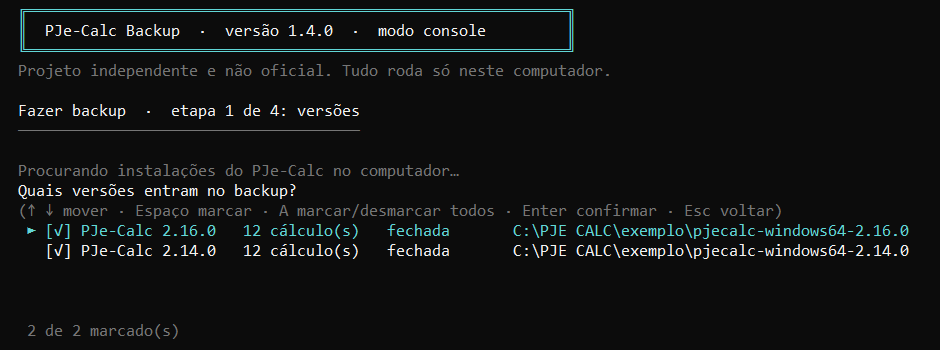
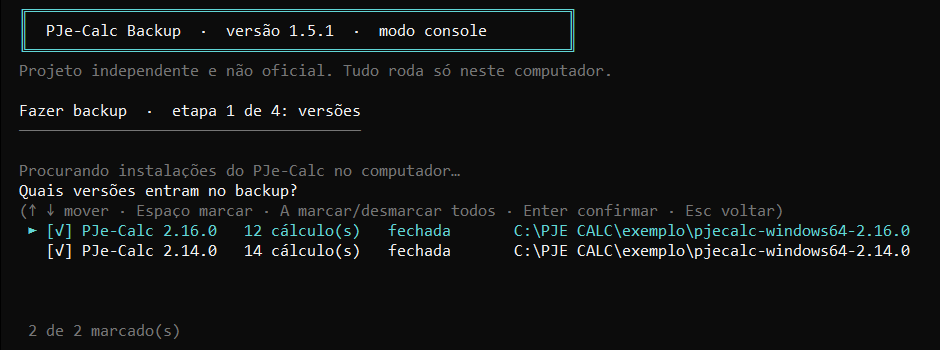
Site e README: fotos novas da 1.5.1 e novidades da 1.5
- Todas as fotos e as duas demonstrações refeitas na 1.5.1, com dados fictícios
- Site: seção "Novidades da versão 1.5", selo "novo" no topo, cores do logo
  (azul-marinho e âmbar), aviso do TRT8, Relatar um problema e espaço em disco
- README: novidades, cartões do aviso do TRT8 e de Relatar um problema,
  limitações e requisitos atualizados (testado também na 2.13.0)
- Tira a instrução de abrir a versão nova do PJe-Calc antes de migrar

diff --git a/docs/index.html b/docs/index.html
@@ -20,9 +20,11 @@
 <link rel="icon" type="image/png" href="icone.png">
 <style>
 :root {
-  --azul: #2c5d8f;
-  --azul-escuro: #1f4570;
+  --azul: #1f4f80;
+  --azul-escuro: #12355b;
   --azul-claro: #e8eff7;
+  --ambar: #f2a900;
+  --ambar-claro: #fff4d6;
   --fundo: #f4f6f9;
   --faixa: #ffffff;
   --faixa-azul: #eaf1f8;
@@ -41,6 +43,8 @@
     --azul: #6aa3dc;
     --azul-escuro: #8ab8e6;
     --azul-claro: #1c2a3a;
+    --ambar: #f2b724;
+    --ambar-claro: #2d2611;
     --fundo: #10161d;
     --faixa: #151d26;
     --faixa-azul: #142233;
@@ -81,7 +85,7 @@ h2 { font-size: 30px; line-height: 1.2; margin: 0 0 8px; letter-spacing: -.4px; 
 .centro .sub { margin-left: auto; margin-right: auto; }
 
 /* topo */
-.topo { background: linear-gradient(160deg, #224c77, #2c5d8f 55%, #3a6fa3); color: #fff; position: relative; }
+.topo { background: linear-gradient(160deg, #0f2c4c, #12355b 50%, #1f4f80); color: #fff; position: relative; }
 .barra { display: flex; align-items: center; justify-content: space-between; gap: 12px; padding: 14px 0; }
 .marca { display: flex; align-items: center; gap: 10px; color: #fff; text-decoration: none; font-weight: 600; font-size: 18px; }
 .marca img { width: 32px; height: 32px; border-radius: 8px; }
@@ -125,7 +129,7 @@ h2 { font-size: 30px; line-height: 1.2; margin: 0 0 8px; letter-spacing: -.4px; 
 /* barra fixa */
 .fixa {
   position: fixed; top: 0; left: 0; right: 0; z-index: 9;
-  background: rgba(31, 69, 112, .96); backdrop-filter: blur(6px);
+  background: rgba(18, 53, 91, .96); backdrop-filter: blur(6px);
   box-shadow: 0 2px 12px rgba(0, 0, 0, .2);
   transform: translateY(-100%); transition: transform .2s ease;
 }
@@ -141,9 +145,24 @@ h2 { font-size: 30px; line-height: 1.2; margin: 0 0 8px; letter-spacing: -.4px; 
 .oficial { margin: 0 0 22px; padding: 14px 18px; border-radius: 10px; background: var(--fundo); border: 1px solid var(--borda); color: var(--suave); font-size: 15px; }
 .oficial b { color: var(--texto); }
 .numeros { display: grid; grid-template-columns: repeat(4, 1fr); gap: 18px; }
-.numero { padding: 4px 0 4px 18px; border-left: 3px solid var(--azul); }
+.numero { padding: 4px 0 4px 18px; border-left: 3px solid var(--ambar); }
 .numero strong { display: block; font-size: 30px; line-height: 1.15; color: var(--azul); letter-spacing: -.5px; }
 .numero span { color: var(--suave); font-size: 15px; }
+
+/* selo "novo" no topo e novidades */
+.novo { display: inline-flex; align-items: center; gap: 8px; margin: 0 0 16px; padding: 4px 12px 4px 4px; border-radius: 99px; background: rgba(255, 255, 255, .1); border: 1px solid rgba(255, 255, 255, .22); color: #eaf2fa; font-size: 14px; text-decoration: none; }
+.novo b { background: var(--ambar); color: #12355b; font-size: 12px; letter-spacing: .3px; padding: 2px 9px; border-radius: 99px; }
+.novo:hover { background: rgba(255, 255, 255, .16); }
+.novidades { display: grid; grid-template-columns: repeat(4, 1fr); gap: 18px; }
+.novidade { background: var(--cartao); border: 1px solid var(--borda); border-top: 3px solid var(--ambar); border-radius: 12px; padding: 20px; box-shadow: var(--sombra); }
+.novidade svg { width: 26px; height: 26px; color: var(--azul); }
+.novidade h3 { margin: 8px 0 6px; font-size: 17px; }
+.novidade p { margin: 0; color: var(--suave); font-size: 15px; }
+.faixa-trt8 { margin: 0 0 22px; border-radius: 10px; border: 1px solid var(--borda); box-shadow: var(--sombra); cursor: zoom-in; }
+.relato { display: grid; grid-template-columns: 1.2fr 1fr; gap: 32px; align-items: center; margin-top: 28px; }
+.relato img { border-radius: 10px; border: 1px solid var(--borda); box-shadow: var(--sombra); cursor: zoom-in; }
+.relato h3 { font-size: 22px; margin: 0 0 8px; }
+.relato p { margin: 0 0 12px; color: var(--suave); }
 
 /* antes e depois */
 .comparar { display: grid; grid-template-columns: 1fr 1fr; gap: 20px; }
@@ -230,7 +249,7 @@ h2 { font-size: 30px; line-height: 1.2; margin: 0 0 8px; letter-spacing: -.4px; 
 .copiar { font-size: 14px; font-weight: 600; cursor: pointer; border: 1px solid var(--borda); background: var(--cartao); color: var(--azul); border-radius: 8px; padding: 6px 12px; }
 
 /* baixar */
-.baixar { background: linear-gradient(160deg, #224c77, #2c5d8f 55%, #3a6fa3); color: #fff; padding: 64px 0; scroll-margin-top: 40px; }
+.baixar { background: linear-gradient(160deg, #0f2c4c, #12355b 50%, #1f4f80); color: #fff; padding: 64px 0; scroll-margin-top: 40px; }
 .baixar h2 { color: #fff; }
 .baixar .sub { color: #dbe8f5; }
 .baixar-grade { display: grid; grid-template-columns: 1fr 1fr; gap: 40px; align-items: start; }
@@ -266,6 +285,8 @@ footer nav { display: flex; flex-wrap: wrap; gap: 16px; }
   .numeros { grid-template-columns: repeat(2, 1fr); }
   .passos { grid-template-columns: repeat(2, 1fr); }
   .painel { grid-template-columns: 1fr; gap: 20px; }
+  .novidades { grid-template-columns: repeat(2, 1fr); }
+  .relato { grid-template-columns: 1fr; gap: 20px; }
   .windows, .duas, .baixar-grade { grid-template-columns: 1fr; }
   .duas, .baixar-grade { gap: 36px; }
 }
@@ -278,7 +299,7 @@ footer nav { display: flex; flex-wrap: wrap; gap: 16px; }
   .faixa, .baixar { padding: 48px 0; }
   .heroi h1 { font-size: 29px; }
   h2 { font-size: 25px; }
-  .comparar, .passos, .numeros { grid-template-columns: 1fr; }
+  .comparar, .passos, .numeros, .novidades { grid-template-columns: 1fr; }
   .numero strong { font-size: 25px; }
   .abas { flex-wrap: nowrap; overflow-x: auto; margin: 0 -16px 18px; padding: 2px 16px 6px; scrollbar-width: none; }
   .abas::-webkit-scrollbar { display: none; }
@@ -286,6 +307,7 @@ footer nav { display: flex; flex-wrap: wrap; gap: 16px; }
   .botoes .botao { width: 100%; justify-content: center; }
   .apoie { grid-template-columns: 1fr; padding: 22px; }
   .arquivo { flex-direction: column; align-items: flex-start; }
+  .faixa-trt8 { display: none; }
 }
 </style>
 </head>
@@ -309,6 +331,10 @@ footer nav { display: flex; flex-wrap: wrap; gap: 16px; }
   <symbol id="i-historico" viewBox="0 0 24 24"><g fill="none" stroke="currentColor" stroke-width="2" stroke-linecap="round" stroke-linejoin="round"><circle cx="11" cy="11" r="7"/><path d="m20 20-4-4"/></g></symbol>
   <symbol id="i-automatico" viewBox="0 0 24 24"><g fill="none" stroke="currentColor" stroke-width="2" stroke-linecap="round" stroke-linejoin="round"><rect x="3" y="5" width="18" height="16" rx="2"/><path d="M3 10h18M8 3v4M16 3v4"/><path d="m9 15 2 2 4-4"/></g></symbol>
   <symbol id="i-tema" viewBox="0 0 24 24"><g fill="none" stroke="currentColor" stroke-width="2" stroke-linecap="round" stroke-linejoin="round"><path d="M20 14.5A8 8 0 0 1 9.5 4a8 8 0 1 0 10.5 10.5z"/></g></symbol>
+  <symbol id="i-sino" viewBox="0 0 24 24"><g fill="none" stroke="currentColor" stroke-width="2" stroke-linecap="round" stroke-linejoin="round"><path d="M6 16V11a6 6 0 0 1 12 0v5l2 2H4z"/><path d="M10 20a2 2 0 0 0 4 0"/></g></symbol>
+  <symbol id="i-disco" viewBox="0 0 24 24"><g fill="none" stroke="currentColor" stroke-width="2" stroke-linecap="round" stroke-linejoin="round"><rect x="3" y="6" width="18" height="12" rx="2"/><path d="M7 14h6"/><circle cx="17" cy="14" r="1"/></g></symbol>
+  <symbol id="i-relato" viewBox="0 0 24 24"><g fill="none" stroke="currentColor" stroke-width="2" stroke-linecap="round" stroke-linejoin="round"><path d="M4 5h16v11H9l-5 4z"/><path d="M12 8v3M12 13.5v.01"/></g></symbol>
+  <symbol id="i-cofre" viewBox="0 0 24 24"><g fill="none" stroke="currentColor" stroke-width="2" stroke-linecap="round" stroke-linejoin="round"><rect x="3" y="3" width="18" height="16" rx="2"/><circle cx="13" cy="11" r="4.5"/><path d="M11 10h4M11 12h4M6 8v1M6 13v1M7 19v2M17 19v2"/></g></symbol>
 </svg>
 
 <div class="fixa" id="fixa" aria-hidden="true">
@@ -316,6 +342,7 @@ footer nav { display: flex; flex-wrap: wrap; gap: 16px; }
     <a class="marca" href="#" tabindex="-1"><img src="logo-branco.png" alt="" width="28" height="28">PJe-Calc Backup</a>
     <nav class="menu">
       <a href="#funcoes" tabindex="-1">O que faz</a>
+      <a href="#novidades" tabindex="-1">Novidades</a>
       <a href="#como-usar" tabindex="-1">Como usar</a>
       <a href="#perguntas" tabindex="-1">Perguntas</a>
       <a href="#baixar" tabindex="-1">Requisitos</a>
@@ -330,6 +357,7 @@ footer nav { display: flex; flex-wrap: wrap; gap: 16px; }
       <a class="marca" href="#"><img src="logo-branco.png" alt="" width="32" height="32">PJe-Calc Backup</a>
       <nav class="menu">
         <a href="#funcoes">O que faz</a>
+        <a href="#novidades">Novidades</a>
         <a href="#como-usar">Como usar</a>
         <a href="#perguntas">Perguntas</a>
         <a href="https://github.com/lfeliipeadv-stack/pjecalc-backup/wiki">Guia completo</a>
@@ -340,6 +368,7 @@ footer nav { display: flex; flex-wrap: wrap; gap: 16px; }
     </div>
     <nav class="gaveta" id="gaveta">
       <a href="#funcoes">O que faz</a>
+      <a href="#novidades">Novidades</a>
       <a href="#como-usar">Como usar</a>
       <a href="#perguntas">Perguntas</a>
       <a href="#baixar">Requisitos e arquivos</a>
@@ -347,6 +376,7 @@ footer nav { display: flex; flex-wrap: wrap; gap: 16px; }
     </nav>
     <div class="heroi">
       <div>
+        <a class="novo" href="#novidades"><b>NOVO</b>Novidades da versão 1.5 →</a>
         <h1>Os cálculos do PJe-Calc guardados, em ordem e sem perder nenhum</h1>
         <p class="lead">Backup, restauração e migração dos cálculos do <b>PJe-Calc Cidadão</b> em todas as versões instaladas no computador. Com a numeração dos cálculos sempre em sequência.</p>
         <div class="botoes">
@@ -465,8 +495,9 @@ footer nav { display: flex; flex-wrap: wrap; gap: 16px; }
       <img src="tela-migrar.png" alt="Migração entre versões concluída" width="1175" height="995" loading="lazy">
       <div>
         <h3>Migração entre versões</h3>
-        <p>Instalou uma versão nova do PJe-Calc? Leve os cálculos da versão antiga para ela de uma vez.</p>
+        <p>Instalou uma versão nova do PJe-Calc? Leve os cálculos da versão antiga para ela de uma vez, sem precisar abri-la antes.</p>
         <ul>
+          <li><svg aria-hidden="true"><use href="#sim"/></svg>Com a versão nova vazia, uma faixa oferece levar os cálculos</li>
           <li><svg aria-hidden="true"><use href="#sim"/></svg>A versão de origem não é alterada</li>
           <li><svg aria-hidden="true"><use href="#sim"/></svg>O que já foi levado vem desmarcado</li>
           <li><svg aria-hidden="true"><use href="#sim"/></svg>Cópia do banco de destino antes de importar</li>
@@ -534,6 +565,45 @@ footer nav { display: flex; flex-wrap: wrap; gap: 16px; }
   </div>
 </section>
 
+<section class="faixa" id="novidades">
+  <div class="largura">
+    <h2>Novidades da versão 1.5</h2>
+    <p class="sub">Menos passos para trocar de versão do PJe-Calc, e mais avisos antes que algo dê errado.</p>
+    <img class="faixa-trt8" src="tela-aviso-trt8.png" alt="Faixa no programa: saiu o PJe-Calc 2.16.0 no site do TRT da 8ª Região, com os botões Ver no site do TRT8 e Baixar e instalar" width="1120" height="72" loading="lazy">
+    <div class="novidades">
+      <div class="novidade">
+        <svg aria-hidden="true"><use href="#i-sino"/></svg>
+        <h3>Aviso de PJe-Calc novo</h3>
+        <p>Quando o TRT da 8ª Região publica uma versão nova, uma faixa avisa. <b>Baixar e instalar</b> traz o instalador oficial de lá, conferido pelo código MD5 publicado na página.</p>
+      </div>
+      <div class="novidade">
+        <svg aria-hidden="true"><use href="#i-migrar"/></svg>
+        <h3>Migração em um clique</h3>
+        <p>Com a versão nova ainda vazia, a faixa <b>Levar os cálculos</b> abre a migração já preenchida. Não precisa mais abrir o PJe-Calc novo antes.</p>
+      </div>
+      <div class="novidade">
+        <svg aria-hidden="true"><use href="#i-disco"/></svg>
+        <h3>Espaço conferido antes</h3>
+        <p>Antes do backup, o programa confere se cabe no disco, no pendrive ou na pasta de rede, e avisa antes de começar.</p>
+      </div>
+      <div class="novidade">
+        <svg aria-hidden="true"><use href="#i-cofre"/></svg>
+        <h3>Logo novo</h3>
+        <p>O cofre: a maçaneta é o sinal de igual, de cálculo conferido. Aparece no programa, no ícone e neste site.</p>
+      </div>
+    </div>
+    <div class="relato">
+      <img src="tela-relato.png" alt="Tela Relatar um problema, com as informações técnicas sem dados das partes" width="1175" height="995" loading="lazy">
+      <div>
+        <h3>Relatar um problema, sem expor ninguém</h3>
+        <p>Pelo link no rodapé do programa: você conta o que aconteceu e ele junta as informações técnicas, trocando os <b>nomes das partes, os processos e os CPFs</b> por marcadores.</p>
+        <p>Depois é só escolher: e-mail para <b>pjecalcbkp@gmail.com</b>, uma <i>issue</i> no GitHub ou copiar o texto. Nada é enviado sem você conferir.</p>
+        <a class="mais" style="font-weight:600;font-size:15px;text-decoration:none" href="https://github.com/lfeliipeadv-stack/pjecalc-backup/wiki/Histórico-de-versões">Tudo o que mudou em cada versão →</a>
+      </div>
+    </div>
+  </div>
+</section>
+
 <section class="faixa azul" id="como-usar">
   <div class="largura">
     <h2>Como usar</h2>
@@ -572,14 +642,15 @@ footer nav { display: flex; flex-wrap: wrap; gap: 16px; }
         <li><svg aria-hidden="true"><use href="#sim"/></svg><div><b>Nunca encerra o PJe-Calc à força</b><span>Se ele estiver aberto, é fechado como no "Sair" do ícone perto do relógio e reaberto no final.</span></div></li>
         <li><svg aria-hidden="true"><use href="#sim"/></svg><div><b>Dá para desfazer</b><span>Antes de restaurar, migrar ou mudar a numeração, guarda uma cópia do banco.</span></div></li>
         <li><svg aria-hidden="true"><use href="#sim"/></svg><div><b>Nada é apagado sem perguntar</b><span>A limpeza de backups antigos mostra a lista antes e manda para a Lixeira.</span></div></li>
-        <li><svg aria-hidden="true"><use href="#sim"/></svg><div><b>Seus dados não saem do computador</b><span>A internet só é usada para ver se há versão nova, o que dá para desligar.</span></div></li>
+        <li><svg aria-hidden="true"><use href="#sim"/></svg><div><b>Confere o espaço antes</b><span>Se a pasta dos backups não tiver espaço, o programa avisa antes de começar.</span></div></li>
+        <li><svg aria-hidden="true"><use href="#sim"/></svg><div><b>Seus dados não saem do computador</b><span>A internet só é usada para ver se há versão nova do programa (no GitHub) e do PJe-Calc (no site do TRT8). As duas consultas podem ser desligadas.</span></div></li>
       </ul>
     </div>
     <div class="cmd" id="cmd">
       <h2>Também no CMD</h2>
       <p>O programa traz junto uma versão para o terminal, com as mesmas funções em menus simples e um modo automático para scripts.</p>
       <pre><code>PJeCalcBackup-Console.exe --backup --rapido</code></pre>
-      <img src="cmd-backup.png" alt="Backup rápido pela versão para o CMD" width="1059" height="690" loading="lazy">
+      <img src="cmd-backup.png" alt="Backup rápido pela versão para o CMD" width="1098" height="800" loading="lazy">
       <p style="font-size:15px;margin-top:12px"><a href="https://github.com/lfeliipeadv-stack/pjecalc-backup/wiki/Versão-para-o-CMD">Ver os menus e todos os parâmetros →</a></p>
     </div>
   </div>
@@ -595,7 +666,11 @@ footer nav { display: flex; flex-wrap: wrap; gap: 16px; }
     </details>
     <details>
       <summary>Em quais versões do PJe-Calc funciona?</summary>
-      <p>No PJe-Calc Cidadão para Windows. Foi testado nas versões 2.14.0 e 2.16.0, e encontra sozinho todas as versões instaladas no computador.</p>
+      <p>No PJe-Calc Cidadão para Windows. Foi testado nas versões 2.13.0, 2.14.0 e 2.16.0, e encontra sozinho todas as versões instaladas no computador.</p>
+    </details>
+    <details>
+      <summary>Instalei uma versão nova do PJe-Calc. Preciso abri-la antes de migrar?</summary>
+      <p>Não. Quando a versão nova ainda está do jeito que o instalador do TRT8 deixou, o programa faz sozinho o passo da primeira abertura, e a faixa "Levar os cálculos" já leva até a migração. Esse passo foi conferido no PJe-Calc 2.16.0; numa versão diferente, o programa não mexe e pede para abri-la uma vez pelo atalho oficial.</p>
     </details>
     <details>
       <summary>Preciso fechar o PJe-Calc antes do backup?</summary>
@@ -619,7 +694,7 @@ footer nav { display: flex; flex-wrap: wrap; gap: 16px; }
     </details>
     <details>
       <summary>Encontrei um problema. Como relato?</summary>
-      <p>Abra uma <a href="https://github.com/lfeliipeadv-stack/pjecalc-backup/issues">issue no GitHub</a> com a versão do PJe-Calc, a do programa (aparece no rodapé) e a do Windows. Nunca envie arquivos com dados das partes.</p>
+      <p>Clique em <b>Relatar um problema</b>, no rodapé do programa. Ele monta as informações técnicas sem os nomes das partes, os processos e os CPFs, e abre o e-mail (pjecalcbkp@gmail.com) ou uma <a href="https://github.com/lfeliipeadv-stack/pjecalc-backup/issues">issue no GitHub</a> com a mensagem pronta. Nunca envie arquivos com dados das partes.</p>
     </details>
   </div>
 </section>
@@ -649,7 +724,7 @@ footer nav { display: flex; flex-wrap: wrap; gap: 16px; }
       <ul class="requisitos">
         <li><svg aria-hidden="true"><use href="#sim"/></svg>Windows 10 ou 11 (usa o .NET Framework 4.8, que já vem no Windows)</li>
         <li><svg aria-hidden="true"><use href="#sim"/></svg>Microsoft Edge ou Google Chrome, usados de forma invisível para exportar os cálculos</li>
-        <li><svg aria-hidden="true"><use href="#sim"/></svg>PJe-Calc Cidadão para Windows, aberto ao menos uma vez</li>
+        <li><svg aria-hidden="true"><use href="#sim"/></svg>PJe-Calc Cidadão para Windows (testado na 2.13.0, 2.14.0 e 2.16.0)</li>
         <li><svg aria-hidden="true"><use href="#sim"/></svg>Não pede senha de administrador</li>
       </ul>
     </div>
@@ -768,7 +843,7 @@ function fechar() {
   zoomImg.removeAttribute("src");
   if (antes) antes.focus();
 }
-document.querySelectorAll(".painel img, .cmd img").forEach(function (img) {
+document.querySelectorAll(".painel img, .cmd img, .relato img, .faixa-trt8").forEach(function (img) {
   img.addEventListener("click", function () { ampliar(img.src, img.alt); });
 });
 document.querySelectorAll("[data-demo]").forEach(function (b) {

diff --git a/README.md b/README.md
@@ -33,6 +33,9 @@ Gratuito, de código aberto e feito no Brasil 🇧🇷
 > [!IMPORTANT]
 > O **PJe-Calc** é desenvolvido pelo **TRT da 8ª Região** e adotado pelo CSJT em toda a Justiça do Trabalho. Este é um projeto **independente e não oficial**: não tem vínculo com o TRT da 8ª Região, com o CSJT ou com a equipe do PJe-Calc. Tudo roda só no seu computador.
 
+> [!TIP]
+> **Novidades da 1.5:** aviso quando o TRT da 8ª Região publica uma versão nova do PJe-Calc, com download do instalador oficial conferido; migração para a versão nova **sem precisar abri-la antes**; conferência de espaço em disco antes do backup; **Relatar um problema** no rodapé, sem dados das partes; e o logo novo, o cofre. [Ver tudo o que mudou](../../wiki/Histórico-de-versões).
+
 ## Por que existe
 
 O PJe-Calc guarda os cálculos num banco de dados **dentro da pasta de cada versão**. Quando se instala uma versão nova em outra pasta, os cálculos antigos **não vão junto**, e o PJe-Calc não tem backup automático. A única saída era exportar e importar cálculo por cálculo pela tela, o que levava horas.
@@ -63,7 +66,7 @@ Restaura cálculos <code>.PJC</code> em qualquer versão e deixa desmarcados os 
 <td valign="top">
 <img src="docs/tela-migrar.png" alt="Migração entre versões concluída"><br>
 <b>Migração entre versões</b><br>
-Leva os cálculos de uma versão do PJe-Calc para outra sem mexer na origem e sem duplicar o que já foi levado.
+Leva os cálculos de uma versão do PJe-Calc para outra sem mexer na origem e sem duplicar o que já foi levado. Quando a versão nova ainda está vazia, uma faixa oferece levar os cálculos com um clique, sem precisar abri-la antes.
 </td>
 </tr>
 <tr>
@@ -102,6 +105,18 @@ Tema claro, escuro ou seguindo o Windows, 33 paletas de cores, sons e notificaç
 As mesmas funções em menus no terminal, e um modo automático para scripts. <a href="#versão-para-o-cmd">Saiba mais</a>.
 </td>
 </tr>
+<tr>
+<td valign="top">
+<img src="docs/tela-aviso-trt8.png" alt="Faixa avisando que saiu uma versão nova do PJe-Calc no site do TRT da 8ª Região"><br>
+<b>Aviso de versão nova do PJe-Calc</b><br>
+Ao abrir, o programa consulta a página de instalação do site do TRT da 8ª Região. Se saiu uma versão mais nova que as instaladas, <b>Baixar e instalar</b> traz o instalador oficial de lá, conferido pelo código MD5 publicado na página.
+</td>
+<td valign="top">
+<img src="docs/tela-relato.png" alt="Tela Relatar um problema"><br>
+<b>Relatar um problema</b><br>
+No rodapé: o programa monta as informações técnicas <b>sem os nomes das partes, os processos e os CPFs</b>, e abre o e-mail ou o GitHub com a mensagem pronta. Nada é enviado sem você conferir.
+</td>
+</tr>
 </table>
 
 ## Como usar
@@ -130,7 +145,8 @@ O passo a passo completo, com uma foto de cada tela, está no **[Wiki](../../wik
 - **O banco original não é alterado no backup.** A lista de cálculos é lida de uma cópia temporária.
 - **Antes de restaurar, migrar ou mudar a numeração**, guarda uma cópia do banco. Dá para desfazer pelo Histórico.
 - **Nada é apagado sem perguntar.** A limpeza de backups antigos mostra a lista antes e manda para a Lixeira. O backup mais recente sem falhas nunca sai.
-- **Tudo roda no seu computador.** A internet só é usada para ver se há versão nova no GitHub (dá para desligar) e para baixá-la quando você pede. A atualização confere o SHA-256 de cada arquivo.
+- **Confere o espaço antes.** Se a pasta de backups (inclusive pendrive ou rede) não tiver espaço, o programa avisa antes de começar.
+- **Tudo roda no seu computador.** A internet só é usada para ver se há versão nova do programa no GitHub e do PJe-Calc no site do TRT8 (as duas consultas podem ser desligadas), e para baixar quando você pede. A atualização do programa confere o SHA-256 de cada arquivo; o instalador do PJe-Calc é conferido pelo MD5 publicado pelo TRT8.
 
 ## Numeração dos cálculos
 
@@ -174,13 +190,13 @@ Menus, arrastar e soltar e todos os parâmetros: **[Versão para o CMD](../../wi
 | `PJeCalcBackup-vX.Y.Z.zip` | Os arquivos separados: o programa, a versão para o CMD (`PJeCalcBackup-Console.exe`) e o `backup-calculos.bat`. |
 | `SHA256.txt` | Os códigos para conferir que o arquivo baixado é o publicado. |
 
-**Requisitos:** Windows 10 ou 11 (usa o .NET Framework 4.8, que já vem no Windows) e Microsoft Edge ou Google Chrome, usados de forma invisível para exportar e importar os `.PJC`. Testado no PJe-Calc Cidadão **2.14.0** e **2.16.0**.
+**Requisitos:** Windows 10 ou 11 (usa o .NET Framework 4.8, que já vem no Windows) e Microsoft Edge ou Google Chrome, usados de forma invisível para exportar e importar os `.PJC`. Testado no PJe-Calc Cidadão **2.13.0**, **2.14.0** e **2.16.0**.
 
 ## Sobre
 
 Este programa nasceu de uma dificuldade real no dia a dia da advocacia: ao instalar uma versão nova do PJe-Calc, os cálculos não vão junto, e a única saída era exportar e importar um por um. O PJe-Calc Backup faz isso de forma automática e segura, com conferência no final.
 
-As fotos desta página e do Wiki foram feitas com **dados fictícios**: nomes, empresas e processos inventados, em duas instalações de teste do PJe-Calc.
+As fotos desta página e do Wiki foram feitas na versão 1.5.1 com **dados fictícios**: nomes, empresas e processos inventados, em duas instalações de teste do PJe-Calc.
 
 ## Limitações conhecidas
 
@@ -188,7 +204,10 @@ As fotos desta página e do Wiki foram feitas com **dados fictícios**: nomes, e
 - Cada `.PJC` importado vira um cálculo novo, com número novo. É assim que o PJe-Calc funciona; a aba Numeração pode pôr os números em ordem depois.
 - A detecção de duplicados compara reclamante, reclamado, processo e as datas do contrato e do cálculo. Dois cálculos iguais nesses dados são tratados como o mesmo.
 - Mudar o número dos cálculos só é liberado nas versões do PJe-Calc já conferidas. Numa versão nova, essa parte fica bloqueada até uma atualização do programa; a reserva de 1 número continua disponível.
-- Uma versão do PJe-Calc que nunca foi aberta precisa ser aberta uma vez pelo atalho oficial antes do primeiro uso.
+- O passo automático da primeira abertura de uma versão recém-instalada foi conferido só no PJe-Calc **2.16.0**. Se uma versão futura vier diferente, o programa não mexe nela e pede para abri-la uma vez pelo atalho oficial.
+- O aviso de versão nova do PJe-Calc depende do formato da página de instalação no site do TRT8. Se a página mudar, o aviso deixa de aparecer até o programa ser atualizado. O download é conferido pelo código MD5 que o próprio TRT8 publica.
+- A conferência de espaço em disco é uma estimativa com folga; o backup costuma ocupar menos.
+- Os backups ainda não têm senha. Guarde-os num lugar seguro.
 
 ## Privacidade
 
@@ -212,7 +231,7 @@ Os executáveis ficam em `app\saida`. Detalhes técnicos em **[Como funciona](..
 
 ## Contribuindo
 
-Encontrou um problema ou testou em outra versão do PJe-Calc? Abra uma [*issue*](../../issues) dizendo a versão do PJe-Calc, a do PJe-Calc Backup (aparece no rodapé do programa) e a do Windows. Se colar o `relatorio.txt`, **apague os nomes das partes antes**.
+Encontrou um problema ou testou em outra versão do PJe-Calc? O jeito mais fácil é o link **Relatar um problema**, no rodapé do programa: ele já junta as versões e as últimas operações, **sem os nomes das partes**, e abre o e-mail (**pjecalcbkp@gmail.com**) ou uma [*issue*](../../issues) com a mensagem pronta. Se for colar um `relatorio.txt` à mão, **apague os nomes das partes antes**.
 
 ## ❤ Apoie este projeto
 
@@ -222,7 +241,7 @@ O PJe-Calc Backup é gratuito e continuará sendo. Se ele economizou o seu tempo
 
 <img src="docs/apoie-pix.png" alt="QR Code PIX para apoiar o projeto" width="220">
 
-No app do banco: **Pix → Pagar com chave** (cole a chave) ou leia o QR Code. O nome do recebedor aparece antes de você confirmar. A chave e o QR Code também ficam no programa, em **⚙ → Apoie este projeto**.
+No app do banco: **Pix → Pagar com chave** (cole a chave) ou leia o QR Code. O nome do recebedor aparece antes de você confirmar. A chave e o QR Code também ficam no programa: clique em **❤ Apoiar**, no rodapé.
 
 Também ajuda dar uma ⭐ no repositório e indicar o programa a colegas que usam o PJe-Calc.
 
